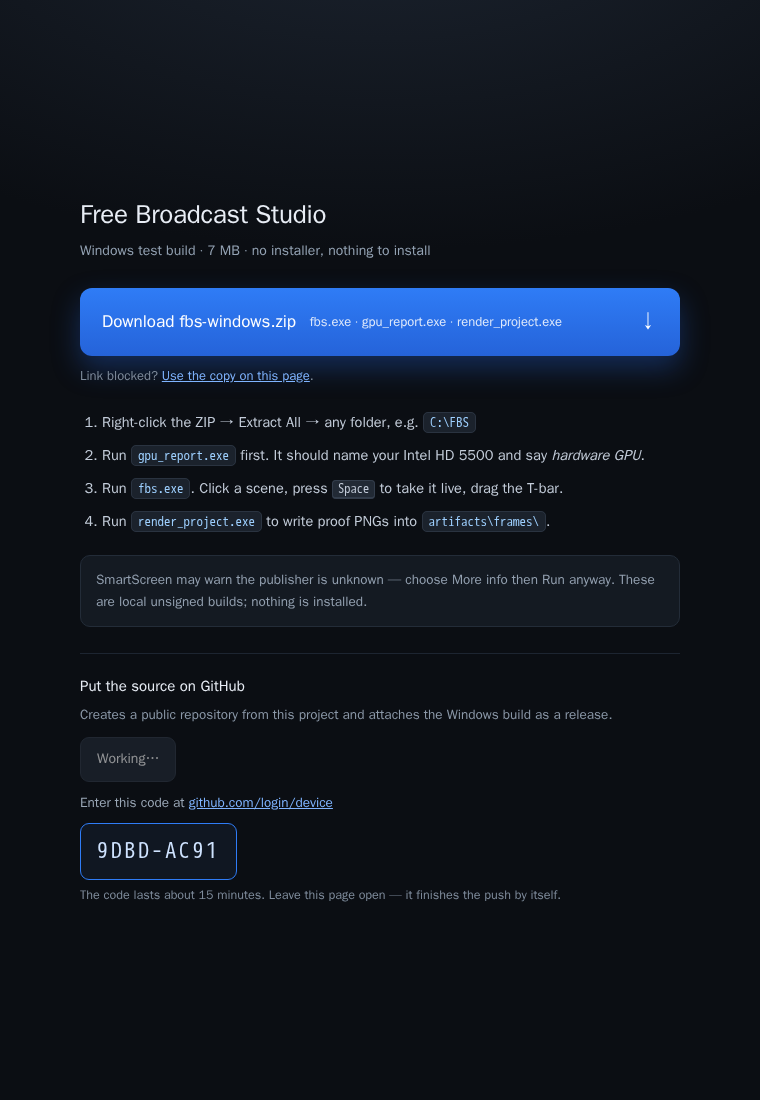
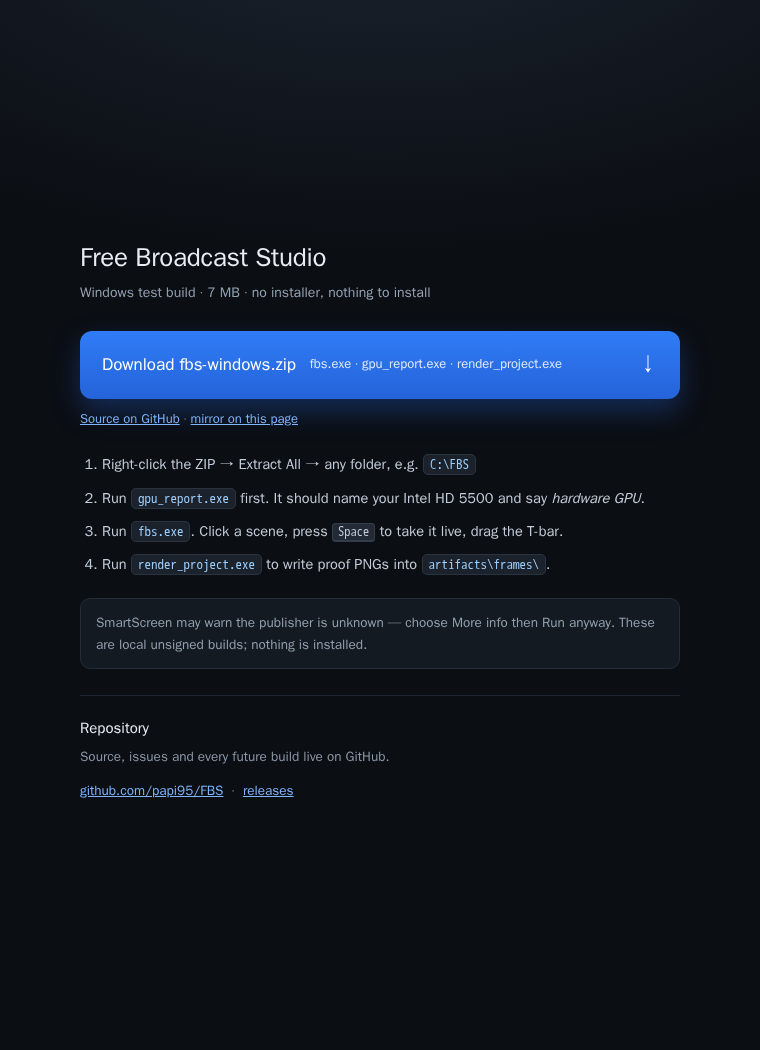
Link GitHub releases from the download page; drop one-off push scripts

diff --git a/download/index.html b/download/index.html
@@ -52,12 +52,15 @@
   <h1>Free Broadcast Studio</h1>
   <p class="sub">Windows test build · 7 MB · no installer, nothing to install</p>
 
-  <a class="dl" href="https://files.catbox.moe/8e1csp.zip" download>
+  <a class="dl" href="https://github.com/papi95/FBS/releases/download/v0.1.0/fbs-windows.zip">
     Download fbs-windows.zip
     <small>fbs.exe · gpu_report.exe · render_project.exe</small>
     <span class="arrow">↓</span>
   </a>
-  <p class="mirror">Link blocked? <a href="fbs-windows.zip" download>Use the copy on this page</a>.</p>
+  <p class="mirror">
+    <a href="https://github.com/papi95/FBS" target="_blank" rel="noopener">Source on GitHub</a> ·
+    <a href="fbs-windows.zip" download>mirror on this page</a>
+  </p>
 
   <ol>
     <li>Right-click the ZIP → <strong>Extract All</strong> → any folder, e.g. <code>C:\FBS</code></li>
@@ -72,88 +75,15 @@
   </div>
 
   <section class="gh">
-    <h2>Put the source on GitHub</h2>
-    <p id="ghintro">Creates a public repository from this project and attaches the Windows build as a release.</p>
-    <button id="ghbtn" type="button">Push to GitHub</button>
-    <div class="status" id="ghstatus"></div>
+    <h2>Repository</h2>
+    <p>Source, issues and every future build live on GitHub.</p>
+    <p><a class="ghlink" href="https://github.com/papi95/FBS" target="_blank" rel="noopener">
+      github.com/papi95/FBS</a> &nbsp;·&nbsp;
+      <a class="ghlink" href="https://github.com/papi95/FBS/releases" target="_blank" rel="noopener">
+      releases</a>
+    </p>
   </section>
 </main>
 
-<script>
-const btn = document.getElementById('ghbtn');
-const statusEl = document.getElementById('ghstatus');
-const intro = document.getElementById('ghintro');
-
-function render(s) {
-  const state = s.state || 'idle';
-  if (state === 'idle') {
-    statusEl.textContent = '';
-    statusEl.className = 'status';
-  } else if (state === 'expired' || state === 'error') {
-    statusEl.innerHTML = s.msg || 'Something went wrong.';
-    statusEl.className = 'status bad';
-    btn.disabled = false;
-    btn.textContent = 'Try again';
-  } else if (state === 'done') {
-    statusEl.innerHTML = '<span class="ok">Done — repository is live:</span> ' +
-      '<a class="ghlink" href="' + s.url + '" target="_blank" rel="noopener">' + s.url + '</a>';
-    statusEl.className = 'status';
-    btn.disabled = true;
-    btn.textContent = 'Pushed';
-  } else {
-    if (s.code && state === 'waiting_code') {
-      statusEl.innerHTML =
-        'Enter this code at ' +
-        '<a class="ghlink" href="' + (s.url || 'https://github.com/login/device') +
-        '" target="_blank" rel="noopener">github.com/login/device</a>' +
-        '<br><span class="code">' + s.code + '</span>' +
-        '<br><span style="color:#7f8c9c;font-size:12.5px">The code lasts about 15 minutes. ' +
-        'Leave this page open — it finishes the push by itself.</span>';
-    } else {
-      statusEl.textContent = s.msg || 'Working…';
-    }
-    statusEl.className = 'status';
-    btn.disabled = true;
-    btn.textContent = 'Working…';
-  }
-}
-
-let autoStarted = false;
-
-async function poll() {
-  let s;
-  try {
-    const r = await fetch('github.json', { cache: 'no-store' });
-    s = await r.json();
-  } catch (e) {
-    return; /* page reopened after sleep; try again next tick */
-  }
-  render(s);
-
-  // Start by itself the first time the page is opened, so the device code is
-  // always fresh. Codes only live ~15 minutes; making the user hunt for a
-  // button first is what wasted the earlier attempts.
-  const idle = (s.state === 'idle' || s.state === 'expired' || !s.state);
-  if (idle && !autoStarted) {
-    autoStarted = true;
-    startPush();
-  }
-}
-
-async function startPush() {
-  try {
-    await fetch('push', { method: 'POST' });
-  } catch (e) {}
-  poll();
-}
-
-btn.addEventListener('click', () => {
-  autoStarted = true;
-  startPush();
-});
-
-poll();
-setInterval(poll, 4000);
-</script>
 </body>
 </html>
